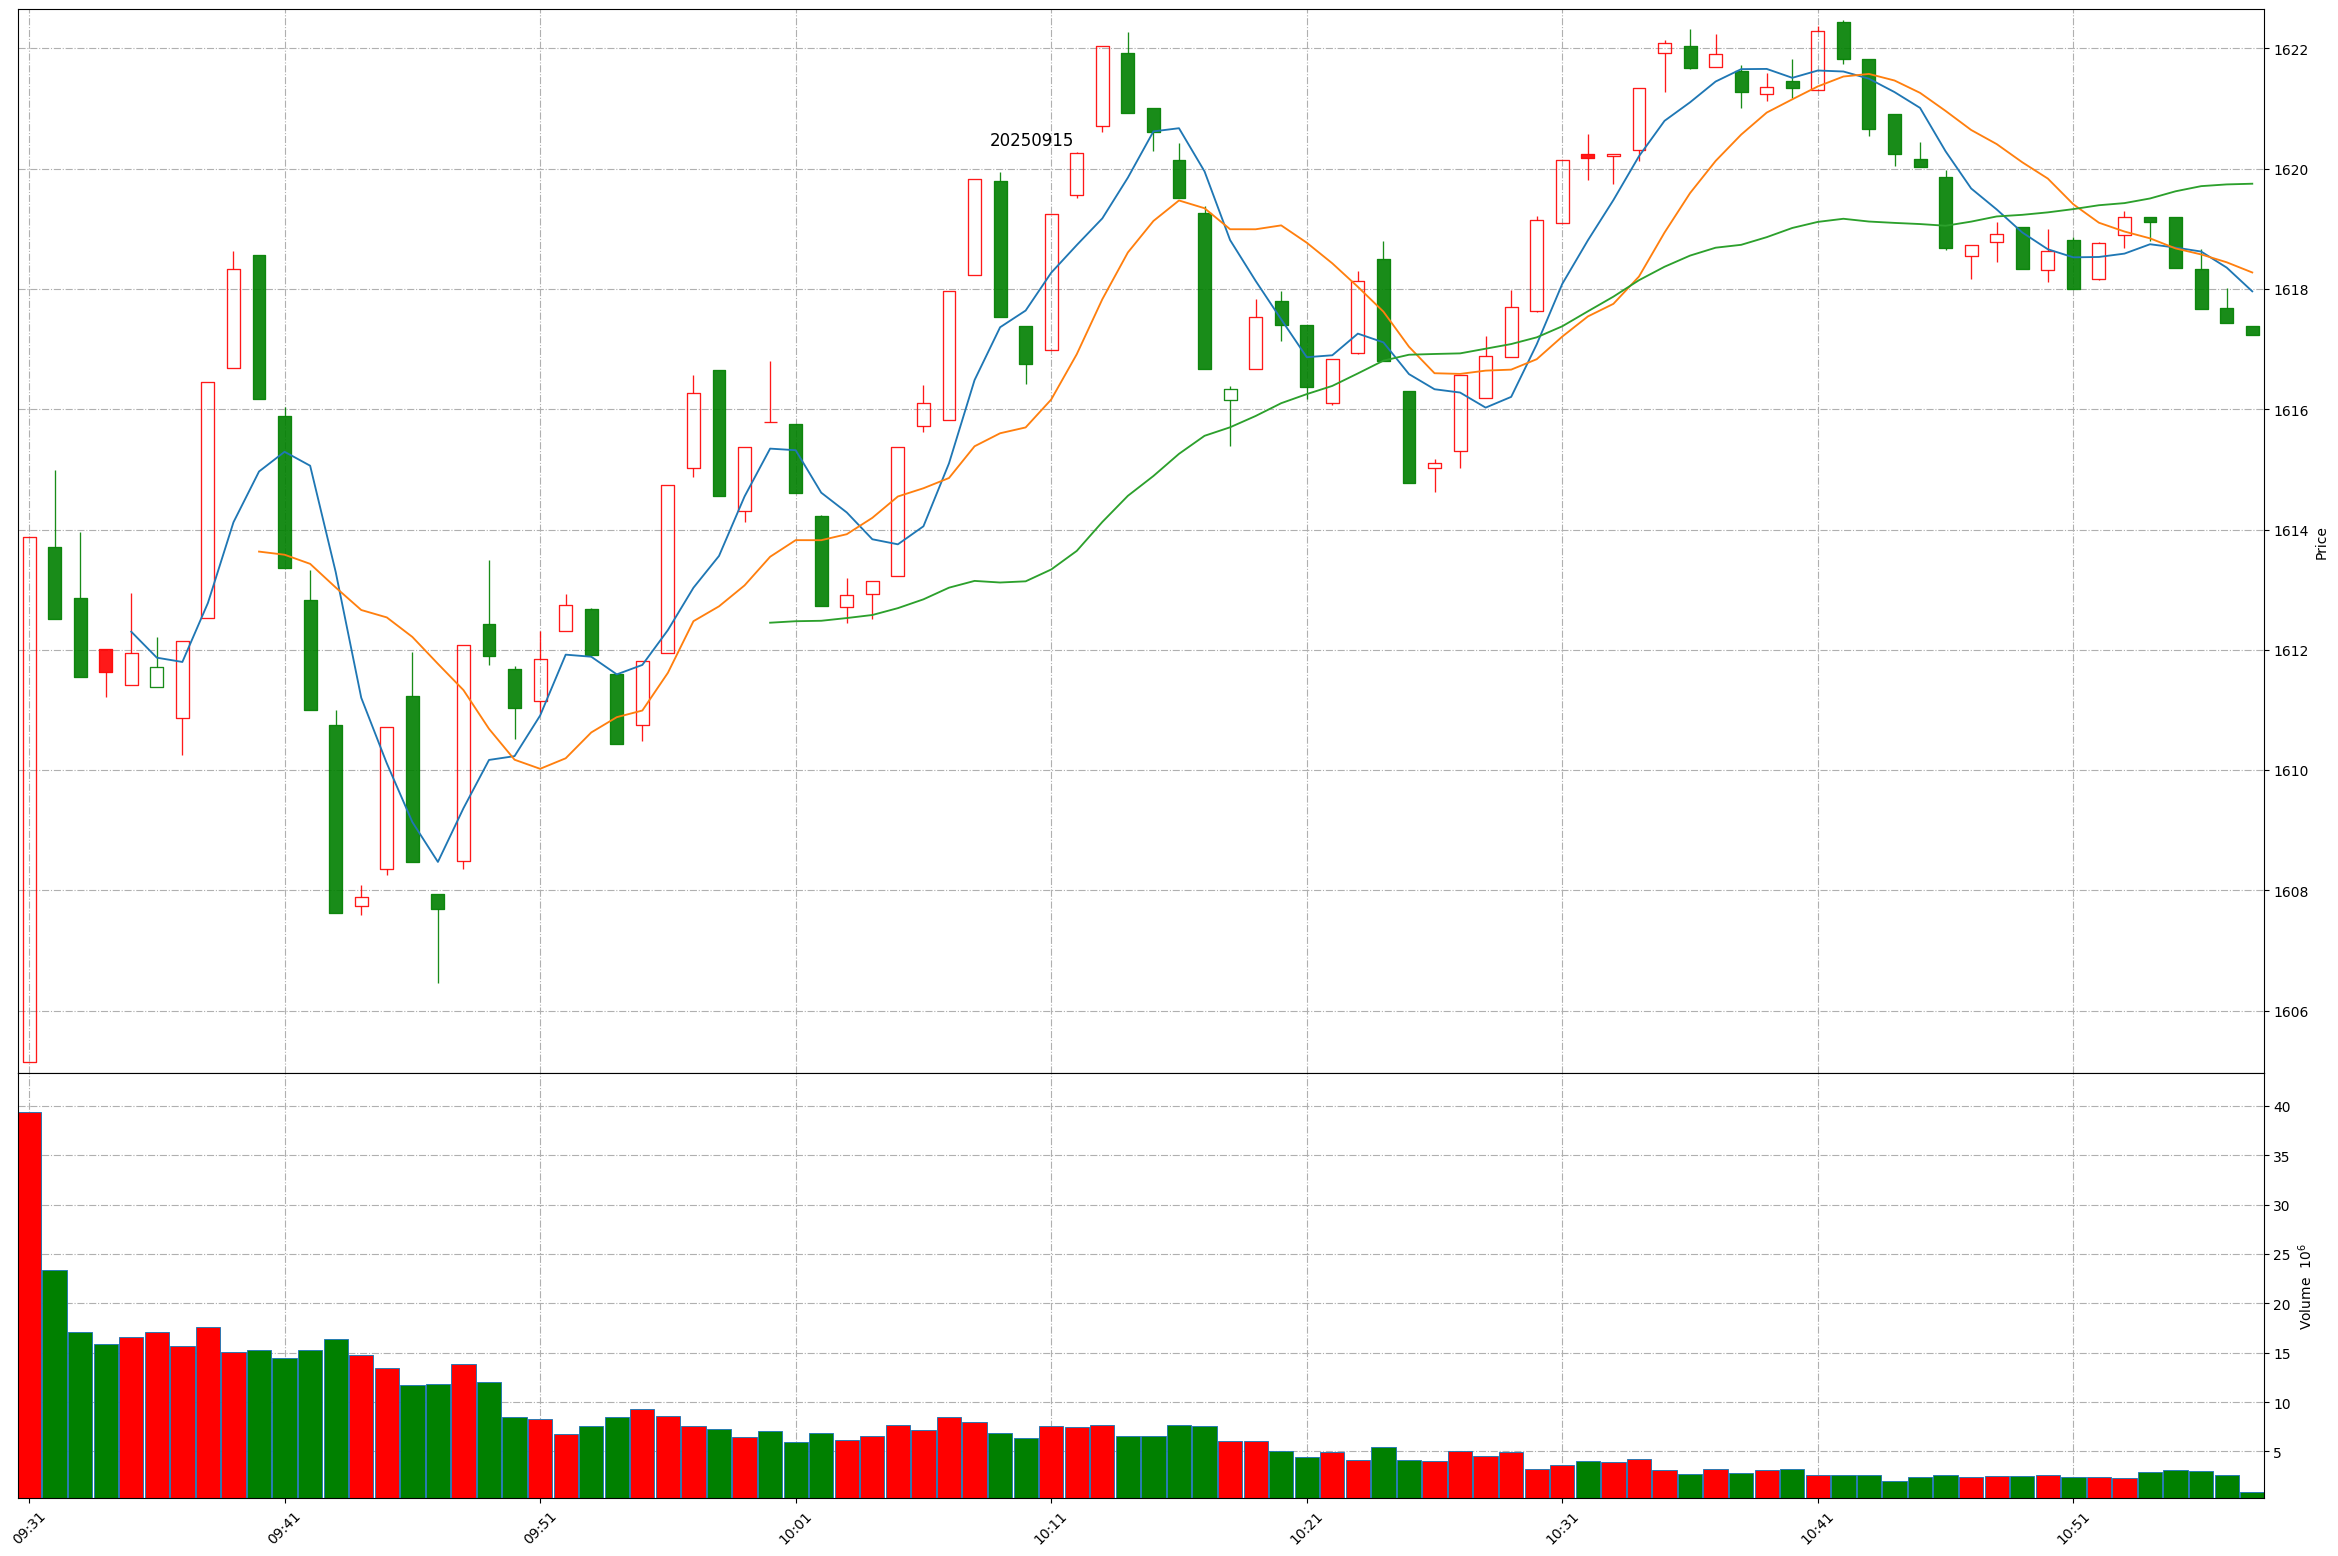
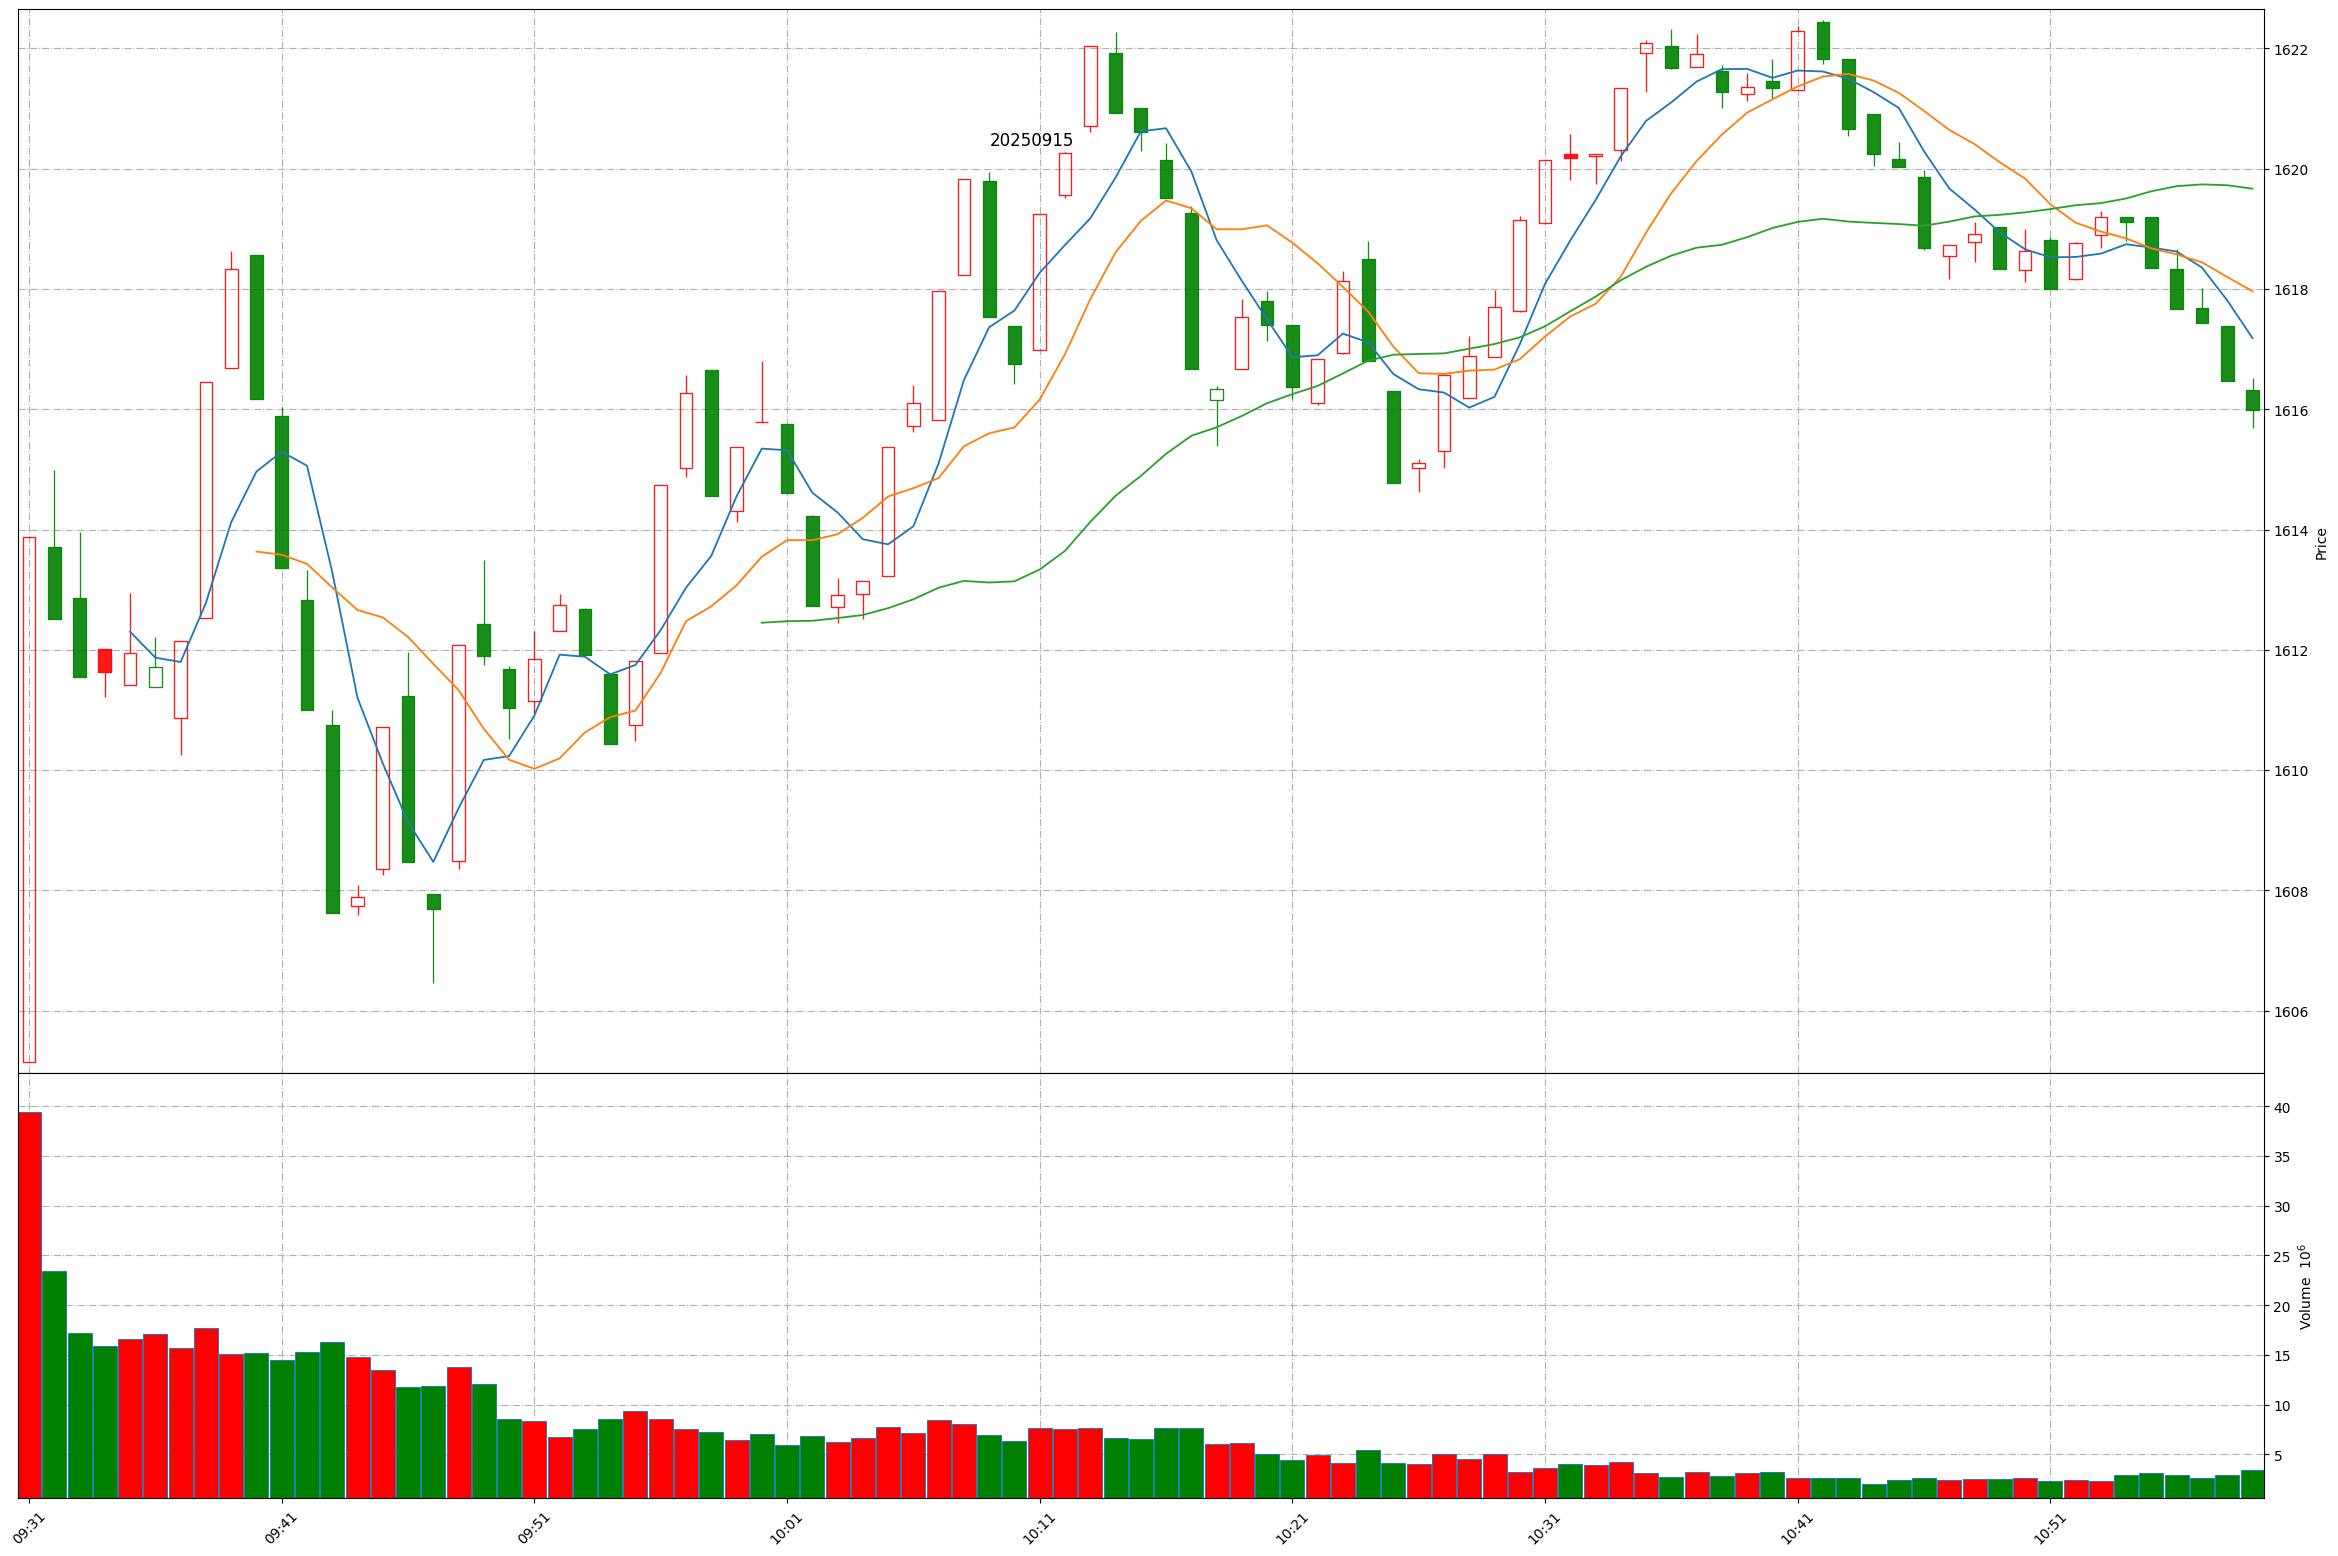
Github action update at 2025-09-15 10:58:57.

diff --git a/README.md b/README.md
@@ -1,11 +1,11 @@
 
 # Daily-A-share-market-quotes 每日 A 股指数（5min 更新）- 20250915
 
-### 上证指数 20250915 10:57
+### 上证指数 20250915 10:58
 ![](./fig/2025/9/20250915-sh000001.png)
 
-### 深证成指 20250915 10:57
+### 深证成指 20250915 10:58
 ![](./fig/2025/9/20250915-sz399001.png)
 
-### 北证50 20250915 10:57
+### 北证50 20250915 10:58
 ![](./fig/2025/9/20250915-bj899050.png)
